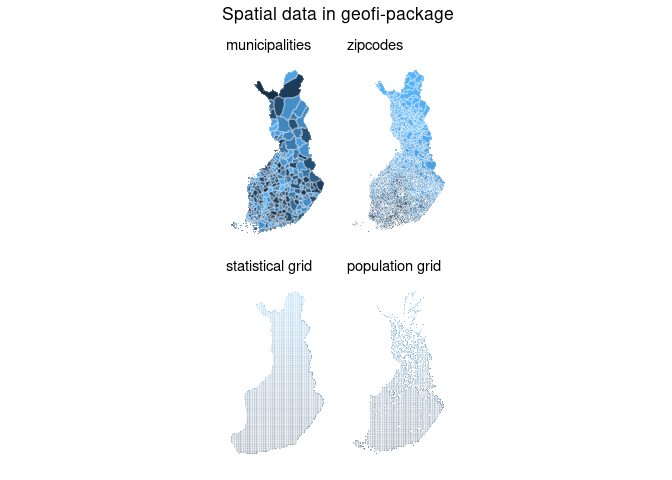
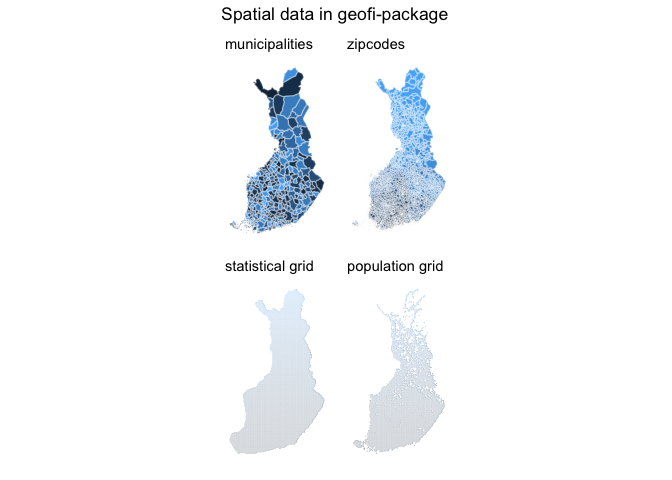
Small update to readme

diff --git a/README.md b/README.md
@@ -1,23 +1,15 @@
----
-output: 
-  md_document
----
-
-
-
-<br>
-<!-- badges: start -->
-[![R build status](https://github.com/rOpenGov/geofi//workflows/R-CMD-check/badge.svg)](https://github.com/rOpenGov/geofi//actions)
-[![Project Status: Active - The project has reached a stable, usable state and is being actively
+<br> <!-- badges: start --> [![R build
+status](https://github.com/rOpenGov/geofi//workflows/R-CMD-check/badge.svg)](https://github.com/rOpenGov/geofi//actions)
+[![Project Status: Active - The project has reached a stable, usable
+state and is being actively
 developed.](http://www.repostatus.org/badges/latest/active.svg)](http://www.repostatus.org/#active)
-[![Build Status](https://api.travis-ci.org/rOpenGov/geofi.png)](https://travis-ci.org/rOpenGov/geofi)
-[![AppVeyor build status](https://ci.appveyor.com/api/projects/status/github/rOpenGov/geofi?branch=master&svg=true)](https://ci.appveyor.com/project/rOpenGov/geofi)
 [![codecov.io](https://codecov.io/github/rOpenGov/geofi/coverage.svg?branch=master)](https://codecov.io/github/rOpenGov/geofi?branch=master)
 [![Gitter](https://badges.gitter.im/rOpenGov/geofi.svg)](https://gitter.im/rOpenGov/geofi?utm_source=badge&utm_medium=badge&utm_campaign=pr-badge)
-[![Watch on GitHub][github-watch-badge]][github-watch]
-[![Star on GitHub][github-star-badge]][github-star]
-[![Follow](https://img.shields.io/twitter/follow/ropengov.svg?style=social)](https://twitter.com/intent/follow?screen_name=ropengov)
-
+[![Watch on
+GitHub](https://img.shields.io/github/watchers/ropengov/eurostat.svg?style=social)](https://github.com/ropengov/eurostat/watchers)
+[![Star on
+GitHub](https://img.shields.io/github/stars/ropengov/eurostat.svg?style=social)](https://github.com/ropengov/eurostat/stargazers)
+[![Follow](https://img.shields.io/twitter/follow/ropengov.svg?style=social)](https://twitter.com/rOpenGov)
 <!--[![CRAN published](http://www.r-pkg.org/badges/version/geofi)](http://www.r-pkg.org/pkg/geofi)-->
 <!--[![Downloads](http://cranlogs.r-pkg.org/badges/grand-total/geofi)](https://cran.r-project.org/package=geofi)-->
 <!--[![Downloads](http://cranlogs.r-pkg.org/badges/geofi)](https://cran.r-project.org/package=geofi)-->
@@ -25,83 +17,73 @@ developed.](http://www.repostatus.org/badges/latest/active.svg)](http://www.repo
 
 <br>
 
-geofi - Finland GIS data for R
-======
+# geofi - Finland GIS data for R
 
 <!-- README.md is generated from README.Rmd. Please edit that file -->
 
-Geospatial data from Finland for R. 
+Geospatial data from Finland for R.
 
 ### Installation and use
 
+    # Install development version from GitHub
+    remotes::install_github("ropengov/geofi")
 
-```r
-# Install development version from GitHub
-remotes::install_github("ropengov/geofi")
-```
+With `geofi`-package you can download geospatial data on municipalities,
+zipcodes and population and statistical grids from Statistics Finland
+WFS-api. In addition, you have on-board municipality keys for
+aggregating municipality-level data into higher level regional
+distributions based Statistics Finland classification API.
 
-With `geofi`-package you can download geospatial data on municipalities, zipcodes and population and statistical grids from Statistics Finland WFS-api. In addition, you have on-board municipality keys for aggregating municipality-level data  into higher level regional distributions based Statistics Finland classification API.
+    library(geofi)
+    d1 <- get_municipalities(year = 2020)
+    d2 <- get_zipcodes(year = 2020)
+    d3 <- get_statistical_grid(resolution = 5)
+    d4 <- get_population_grid(resolution = 5)
 
+    library(ggplot2)
+    theme_set(
+      theme_minimal() +
+      theme(legend.position= "none",
+            axis.text = element_blank(),
+            axis.title = element_blank(),
+            panel.grid = element_blank()
+            )
+    )
+    p1 <- ggplot(d1, aes(fill = kunta)) + geom_sf(colour = alpha("white", 1/3)) + labs(subtitle = "municipalities")
+    p2 <- ggplot(d2, aes(fill = as.integer(posti_alue))) + geom_sf(colour = alpha("white", 1/3)) + labs(subtitle = "zipcodes")
+    p3 <- ggplot(d3, aes(fill = nro)) + geom_sf(colour = alpha("white", 1/3)) + labs(subtitle = "statistical grid")
+    p4 <- ggplot(d4, aes(fill = id_nro)) + geom_sf(colour = alpha("white", 1/3)) + labs(subtitle = "population grid")
 
-```r
-library(geofi)
-d1 <- get_municipalities(year = 2021)
-d2 <- get_zipcodes(year = 2021)
-d3 <- get_statistical_grid(resolution = 5)
-d4 <- get_population_grid(resolution = 5)
+    library(patchwork)
+    wrap_plots(list(p1,p2,p3,p4), ncol = 2) + 
+      patchwork::plot_annotation(title = "Spatial data in geofi-package")
 
-library(ggplot2)
-theme_set(
-  theme_minimal() +
-  theme(legend.position= "none",
-        axis.text = element_blank(),
-        axis.title = element_blank(),
-        panel.grid = element_blank()
-        )
-)
-p1 <- ggplot(d1, aes(fill = kunta)) + geom_sf(colour = alpha("white", 1/3)) + labs(subtitle = "municipalities")
-p2 <- ggplot(d2, aes(fill = as.integer(posti_alue))) + geom_sf(colour = alpha("white", 1/3)) + labs(subtitle = "zipcodes")
-p3 <- ggplot(d3, aes(fill = nro)) + geom_sf(colour = alpha("white", 1/3)) + labs(subtitle = "statistical grid")
-p4 <- ggplot(d4, aes(fill = id_nro)) + geom_sf(colour = alpha("white", 1/3)) + labs(subtitle = "population grid")
+![](README-readme_map-1.png)
 
-library(patchwork)
-wrap_plots(list(p1,p2,p3,p4), ncol = 2) + 
-  patchwork::plot_annotation(title = "Spatial data in geofi-package")
-```
-
-![plot of chunk readme_map](README-readme_map-1.png)
-
-
-
-
-For installation and usage, check the [tutorial page](https://ropengov.github.io/geofi/articles/geofi_datasets.html).
+For installation and usage, check the [tutorial
+page](https://ropengov.github.io/geofi/articles/geofi_datasets.html).
 
 ### Contribute
 
 Contributions are very welcome:
 
-  * [Use issue tracker](https://github.com/ropengov/geofi/issues) for feedback and bug reports.
-  * [Send pull requests](https://github.com/ropengov/geofi/)
-  * [Star us on the Github page](https://github.com/ropengov/geofi)
-  * [Join the discussion in Gitter](https://gitter.im/rOpenGov/geofi)
-
+-   [Use issue tracker](https://github.com/ropengov/geofi/issues) for
+    feedback and bug reports.
+-   [Send pull requests](https://github.com/ropengov/geofi/)
+-   [Star us on the Github page](https://github.com/ropengov/geofi)
+-   [Join the discussion in Gitter](https://gitter.im/rOpenGov/geofi)
 
 ### Acknowledgements
 
-**Kindly cite this work** as follows: 
-[Markus Kainu](https://github.com/muuankarski), [Joona Lehtomäki](https://github.com/jlehtoma), Juuso Parkkinen, Jani Miettinen, [Leo Lahti](https://github.com/antagomir)
-Retrieval and analysis of open geospatial data from Finland with the geofi R package. R package version 0.9.2900012. URL: [http://ropengov.github.io/geofi](http://ropengov.github.io/geofi)
+**Kindly cite this work** as follows: [Markus
+Kainu](https://github.com/muuankarski), [Joona
+Lehtomäki](https://github.com/jlehtoma), Juuso Parkkinen, Jani
+Miettinen, [Leo Lahti](https://github.com/antagomir) Retrieval and
+analysis of open geospatial data from Finland with the geofi R package.
+R package version 0.9.2900007. URL: <http://ropengov.github.io/geofi>
 
-
-
-We are grateful to all [contributors](https://github.com/rOpenGov/geofi/graphs/contributors), including Juusi Parkkinen, Jussi Jousimo, Janne Aukia, Aaro Salosensaari and Jani Miettinen. This project is part of [rOpenGov](http://ropengov.github.io).
-
-
-[github-watch-badge]: https://img.shields.io/github/watchers/ropengov/eurostat.svg?style=social
-[github-watch]: https://github.com/ropengov/eurostat/watchers
-[github-star-badge]: https://img.shields.io/github/stars/ropengov/eurostat.svg?style=social
-[github-star]: https://github.com/ropengov/eurostat/stargazers
-[twitter]: https://twitter.com/intent/tweet?text=Check%20out%20eurostat!%20%E2%9C%A8%20Recognize%20all%20contributors,%20not%20just%20the%20ones%20who%20commit%20code%20%E2%9C%A8%20https://github.com/ropengov/eurostat%20%F0%9F%A4%97
-[twitter-badge]: https://img.shields.io/twitter/url/https/github.com/ropengov/eurostat.svg?style=social
-
-
+We are grateful to all
+[contributors](https://github.com/rOpenGov/geofi/graphs/contributors),
+including Juusi Parkkinen, Jussi Jousimo, Janne Aukia, Aaro Salosensaari
+and Jani Miettinen. This project is part of
+[rOpenGov](http://ropengov.github.io).
